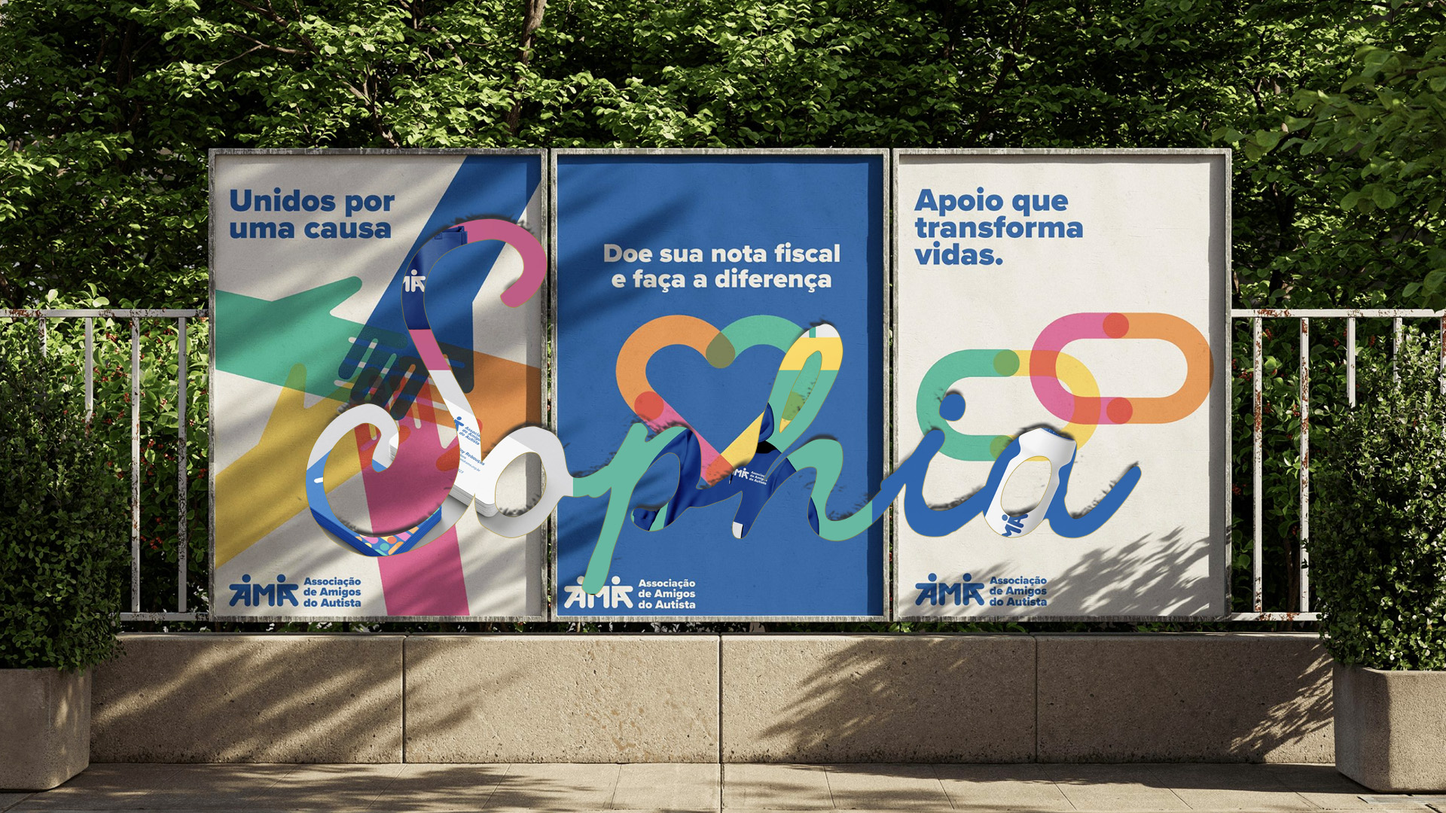
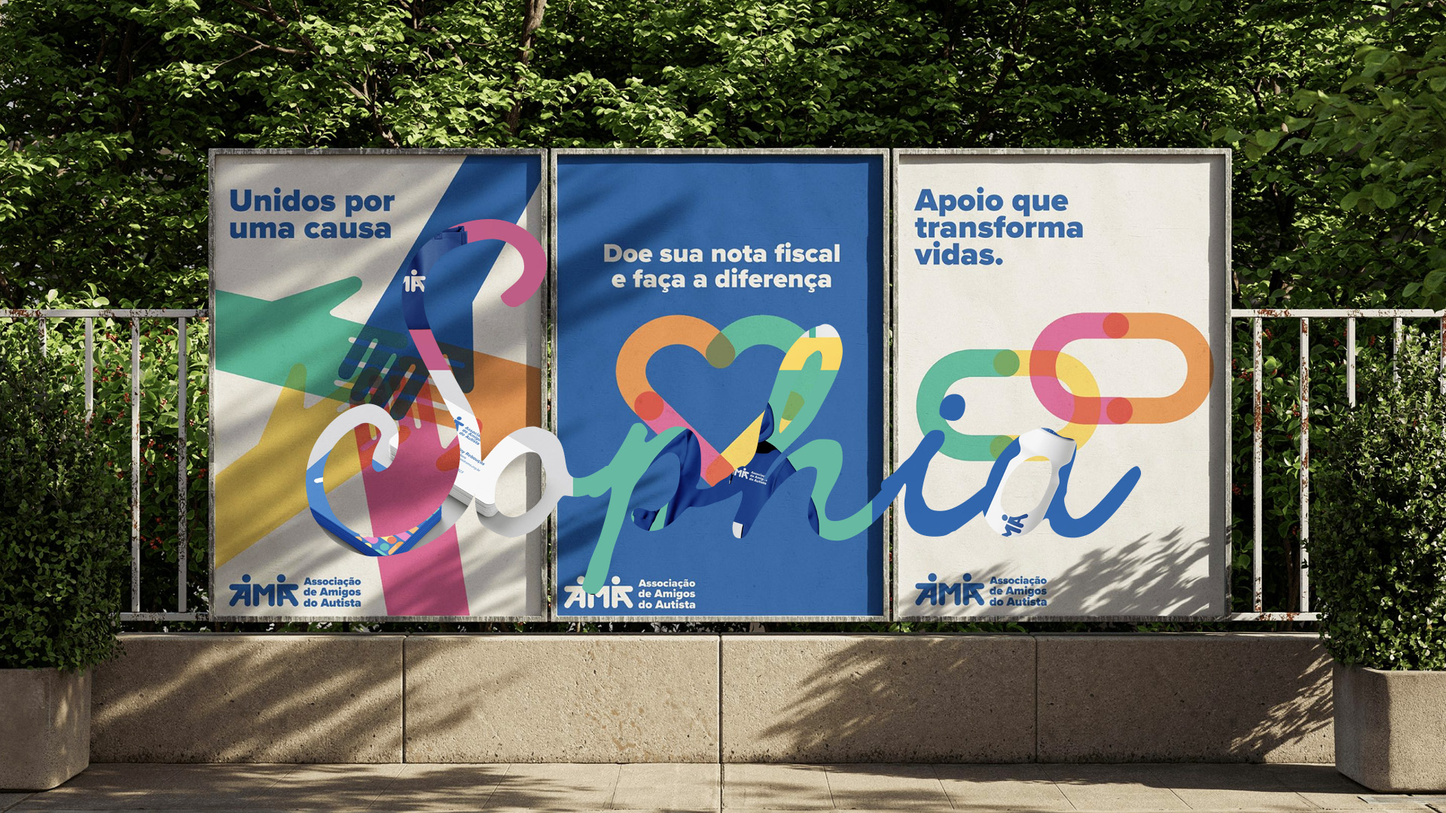
Home: imagens 1, 6 e 7 atualizadas

diff --git a/script.js b/script.js
@@ -46,7 +46,7 @@ window.addEventListener('scroll', () => {
 // HOME: imagens da pasta Capas_Home empilhadas na tela inteira. Quem abre o site vê a primeira;
 // mexer o mouse para a direita e para baixo vai avançando pelas imagens, em ordem,
 // até a última no canto de baixo à direita. No celular, arrastar o dedo faz o mesmo.
-const HOME_IMAGENS = [1, 2, 3, 4, 5, 6, 7].map(n => `imagens/home/home-${n}.jpg`);
+const HOME_IMAGENS = [1, 2, 3, 4, 5, 6, 7].map(n => `imagens/home/home-${n}.jpg?v=2`);
 // cor do S e do menu em cada imagem (a 2 é o amarelo dos + da revista na foto)
 const HOME_CORES = ['#111111', '#E6D934', '#FF3600', '#E53030', '#B7D159', '#FF9843', '#E51381'];
 const NAV_COR_PADRAO = '#FF568D';

diff --git a/index.html b/index.html
@@ -146,6 +146,6 @@
     <img id="lightbox-img" src="">
   </div>
 
-  <script src="script.js?v=96"></script>
+  <script src="script.js?v=97"></script>
 </body>
 </html>
